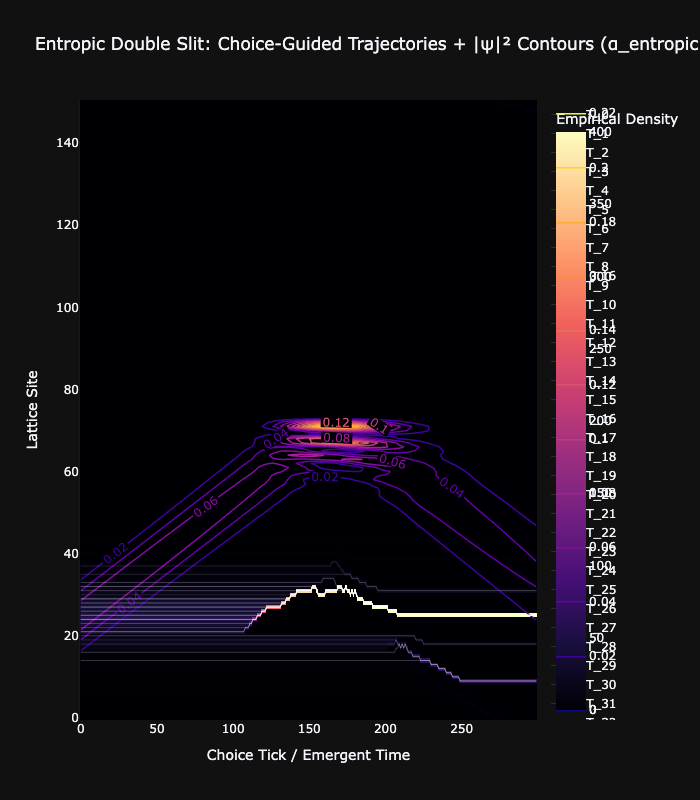
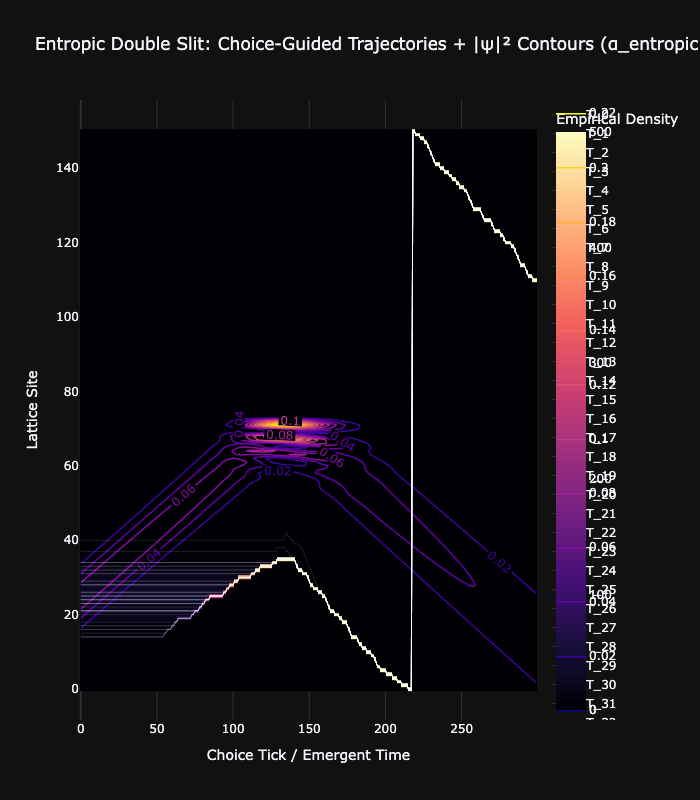
Implement Local Time Dilation in solver and update explainers

diff --git a/ukft_sim/solver.py b/ukft_sim/solver.py
@@ -51,13 +51,17 @@ class SimulationRunner:
         
         print("Starting Simulation Loop...")
         for t_idx in tqdm(range(self.T_ticks), desc="Simulating Choice Steps"):
-            # 1. Dynamic dt
+            # 1. Dynamic dt (Time Dilation)
             rho = np.abs(psi)**2
-            avg_rho = np.mean(rho[positions]) + 1e-6
             
             # UKFT Paper 34: dt ~ hbar / (|psi|^2 * E)
-            dt_n = self.dt_base * (0.1 / avg_rho) 
-            dt_n = np.clip(dt_n, 0.01, 0.2)
+            # Local dt per particle - "Proper Time" per choice step
+            rho_particles = rho[positions] + 1e-9
+            dt_local = self.dt_base * (0.1 / rho_particles)
+            dt_local = np.clip(dt_local, 0.01, 0.25)
+            
+            # Global dt for Field Evolution (Average Experience of the Collective)
+            dt_n = np.mean(dt_local)
             
             physical_time_elapsed += dt_n
             history_time.append(physical_time_elapsed)
@@ -76,8 +80,9 @@ class SimulationRunner:
             V_q = get_quantum_potential(psi, self.t_hop)
             v_field = get_velocity_field(psi, self.t_hop)
             
+            # Pass local dt for each particle's action calculation
             positions, _ = step_discrete_action_minimizer(
-                positions, psi, v_field, V_q, dt_n, 
+                positions, psi, v_field, V_q, dt_local, 
                 self.alpha_entropic, self.t_hop, self.N, self.dx
             )
             

diff --git a/experiments/02_double_slit.md b/experiments/02_double_slit.md
@@ -22,5 +22,7 @@ Observe how the trajectories "decide" which slit to enter. In the interference r
 Note the slope of the curve.
 *   **Steep Slope**: Fast physical time (low action density).
 *   **Flat Slope**: Slow physical time (high action/knowledge density).
+
+**Update (Local Time Dilation)**: The simulation now calculates proper time *locally* for each particle based on the knowledge density $\rho(x)$ it experiences ($dt \propto 1/\rho$).
 You may observe a "kink" or flattening as the packet hits the complex slit region, representing the increased "computational cost" (in choice steps) to navigate the superposition.
 ![Emergent Time](02_double_slit_results_fig3.png)

diff --git a/experiments/03_entropic_double_slit.md b/experiments/03_entropic_double_slit.md
@@ -21,4 +21,4 @@ Notice how the trajectories do not just "fill" the potential; they *hunt* for th
 ## Parameters
 *   **Alpha**: 2.0 (Balanced Choice)
 *   **Resolution**: 151x300 (Optimized for contrast)
-*   **dt**: 0.2 (Emergent Time base)
+*   **dt**: Dynamic/Local (Proper time $dt \propto 1/\rho$)
